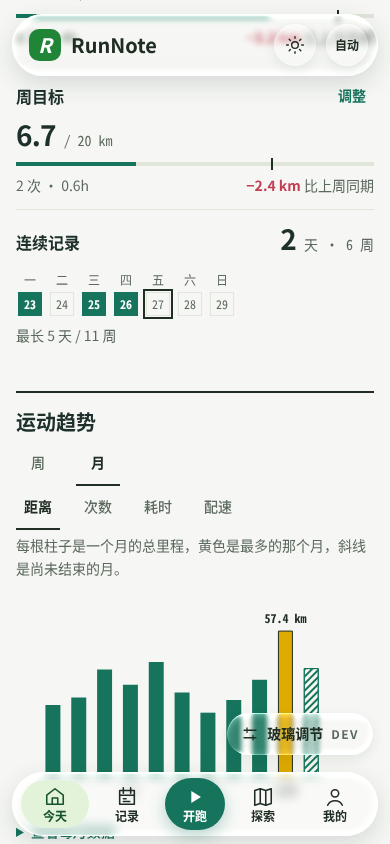
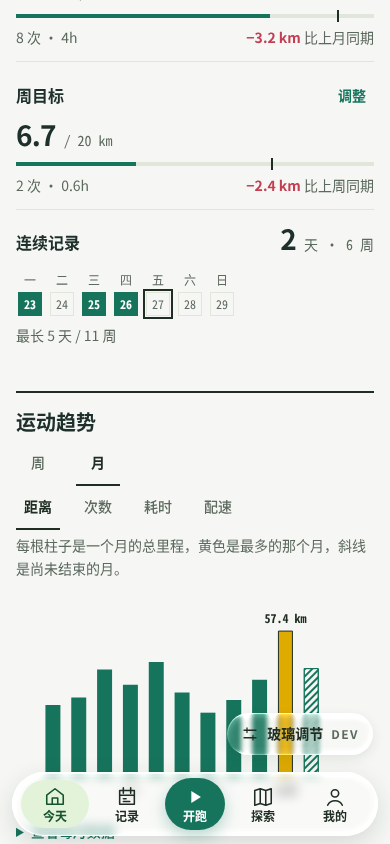
docs(design): record the phone top-bar removal and refresh phase 1 evidence

Changed region(s): [[0.0308, 0.0, 0.9846, 0.1232]]

diff --git a/docs/101-editorial-receipt-phase1.md b/docs/101-editorial-receipt-phase1.md
@@ -13,12 +13,15 @@
 
 数据汇总的新结构：紧凑黄色页头（连体年份步进器）→ 年度距离主数字与三个辅助数字 → 目标压成一条四栏（年/月/周/连续记录）→ 运动趋势（7 栏）与足迹地图（5 栏）→ 运动日历 → 个人记录 → 运动足迹 → 统计口径。手机上同一顺序即使用顺序：年度数字 → 目标进度 → 趋势 → 地图 → 记录 → 浏览。
 
+**手机无顶部条**（负责人后续要求，同一 PR）：<800px 不再渲染顶部条（原 `.mobile-bar` 及其滚动收起逻辑、样式全部删除），不留空条，也不再有第二条玻璃栏。页面从顶部安全区开始（`.page-content` 顶部 `calc(--safe-top + 16px)`），第一屏就是黄色页头和年份控件；导航只有底部液态玻璃 Tab 栏。主题切换：已登录在“我的”→ 设置账户页的“更多”面板（“外观”一行）；未登录没有“我的”，放在页脚（主题 + “登录”，仅手机）。≥800px 的桌面顶部条完全不变。
+
 ## 改动范围
 
 | 区域 | 文件 | 意图 |
 | --- | --- | --- |
 | 令牌与共享样式 | `frontend/src/app.css` | 新增 `--control-border`、`--receipt-ink`、`--receipt-mark`、`--radius-sheet`、`--radius-header`、`--text-figure`、`--text-period-hero` 与别名 `--rule`/`--paper`/`--desk`/`--receipt`（不删旧令牌）；`--text-sport-title` 改为 28px；Editorial Receipt 共享类；手机 Tab 栏底色加密 |
 | 玻璃边界 | `lib/styles/liquid-glass.ts`、`liquid-glass.css`、`menu-glass.ts`、`MobileTabBar.svelte` | `.editorial-page` 内容区排除、`[data-glass-overlay]` 保留；浮动栏按配方调折射与模糊。未删除任何玻璃代码，DEV 调节器仍只在开发环境加载 |
+| 手机外壳 | `AppNavigation.svelte`、`MobileAccountLinks.svelte`、`routes/+layout.svelte`（页脚）、`app.css`、`WellbeingReport.svelte`（打印样式里删掉已不存在的 `.mobile-bar`） | 删除手机顶部条；页面从安全区开始；主题切换移到“我的”面板（未登录时在页脚） |
 | 组件 | `PageHeader`、`MetricSummary`、`TrendChart` + `trend-chart.ts`、`ProvinceMap`、`GoalOverview`、`RecordsBanner`、`RecordsBannerLoader`、`ActivityExplorer` | 见上；props 只增不减，`GoalOverview`/`ActivityExplorer` 只用于数据汇总，直接改为账页写法；`RecordsBanner` 去掉运动色圆形徽章（hero 变体保留卡片外框） |
 | 页面 | `routes/dashboard/+page.svelte` | 新版面；数据读取、离线缓存、年份/日期/URL 状态、401 处理、重试与所有链接不变 |
 | 纯逻辑 | `lib/api/milestones.ts` | `periodElapsed`：目标进度条上“按日期此刻应到的位置”竖线（只做日历计算，距离仍来自服务端） |
@@ -37,10 +40,10 @@
 | --- | --- |
 | `svelte-kit sync && svelte-check --tsconfig ./tsconfig.json` | 0 errors / 0 warnings |
 | `stylelint "src/**/*.{css,svelte}" "tests/fixtures/**/*.{css,svelte}"` | 通过 |
-| `vitest run` | 79 files / 519 tests passed |
+| `vitest run` | 79 files / 520 tests passed |
 | `vite build` | 成功（既有的大 chunk 警告） |
 | `node tests/fixtures/check-showcase-isolation.mjs` | PASS（生产产物无 showcase 标识）；生产产物中无“玻璃调节”调节器字符串 |
-| `playwright test --config playwright.ui.config.ts`（合成 UI，507 用例） | 502 passed、5 skipped（既有的条件跳过）、0 failed，35.5 分钟 |
+| `playwright test --config playwright.ui.config.ts`（合成 UI） | 首轮（5035e62）502 passed、5 skipped、0 failed。去掉手机顶部条后的全量运行：498 passed、5 skipped、1 failed（`theme.spec.ts` 仍在已登录手机数据汇总上找主题开关），改为到“我的”页查找后，该文件单独重跑 9 passed |
 | `playwright test --config playwright.design-system.config.ts` | 7 个行为用例通过；2 个像素基线用例无法在本机比较（仓库只有 `-darwin` 基线），需在 macOS 上审阅后更新 |
 
 `pnpm` 在本机不经 TTY 会要求重装依赖，因此按仓库习惯直接调用 `node_modules/.bin`；`scripts/verify.py` 依赖 `pnpm`，未整体运行。后端未改动，后端测试与集成测试未运行。
@@ -53,6 +56,17 @@
 - `liquid-glass.spec.ts`“pause offscreen controls”：首屏下方的玻璃控件从“查看全部”链接（现为实底文字链接，数据区不挂玻璃）换成足迹地图的投影切换浮层（仍是玻璃）。
 - `records-banner.spec.ts` 中宽横条：横幅去掉卡片内边距后，两栏加横条的视口区间从约 700–980px 变为约 700–915px，宽度改为 800/860/900。
 - `design-system.spec.ts` records banner showcase：compact 变体改为断言 16px 顶部内边距与 1px 发丝线（hero 仍断言 24px 卡片）。
+
+**手机无顶部条的 UI 断言**：`top-navigation.spec.ts` 中各个手机栏用例改为断言手机上没有顶部条（`.mobile-bar` 数量为 0、header 高度 0）、页头在顶部 24px 以内、滚动时顶部没有任何浮层；只有一个页面主题开关，在“我的”面板里。删除的用例只有“收起时的滑动动画”，因为该行为已不存在。`mobile-tabbar.spec.ts` 的安全区用例改为断言页面顶部 padding = 安全区 + 16px；`ui-shell.spec.ts` 与 `liquid-glass.spec.ts` 用来抽查玻璃按钮的对象从顶部条的主题按钮换成“我的”面板里的主题按钮（同一个组件，仍是玻璃）。
+
+**手机核对**（合成数据，已登录与未登录，浅色与深色）：320×640、390×844、768×1024 页头顶部都在 16px，header 高度 0，横向溢出 0。滚到底时页脚最后一行在 Tab 栏上方。Tab 栏“我的”能进入设置，面板里的主题按钮能切换外观；未登录时页脚有主题与“登录”（指向 `/admin`），≥800px 时隐藏。1440×900 桌面页头位置与修改前一致（y=112）。页面错误 0。
+
+| | 浅色 | 深色 |
+| --- | --- | --- |
+| 320×640 | ![](assets/2026-11-27-editorial-receipt-phase1/after-dashboard-320-light.png) | ![](assets/2026-11-27-editorial-receipt-phase1/after-dashboard-320-dark.png) |
+| 390 滚到底（页脚在 Tab 栏上方） | ![](assets/2026-11-27-editorial-receipt-phase1/after-dashboard-390-light-bottom.png) | ![](assets/2026-11-27-editorial-receipt-phase1/after-dashboard-390-dark-bottom.png) |
+| “我的”面板 · 外观 | ![](assets/2026-11-27-editorial-receipt-phase1/after-me-appearance-390-light.png) | ![](assets/2026-11-27-editorial-receipt-phase1/after-me-appearance-390-dark.png) |
+| 未登录页脚 | ![](assets/2026-11-27-editorial-receipt-phase1/after-anon-footer-390-light.png) | ![](assets/2026-11-27-editorial-receipt-phase1/after-anon-footer-390-dark.png) |
 
 **视觉核对**（合成数据；1440×900、768×1024、390×844，浅/深色；控制台只有被阻止的外部底图请求 `ERR_FAILED`，与修改前相同；三档宽度横向溢出 0）
 

diff --git a/docs/design-system/brand.md b/docs/design-system/brand.md
@@ -164,7 +164,7 @@
 | 6.9 记录中 | 背景 `--rec-bg`（浅 #fcfcf7 / 深 #161514）、文字 `--rec-ink`（浅 #10251b / 深 #f6f4f1，对比 15.7 / 16.6:1）；距离 136px、用时/配速 52px，全部墨色（不用绿色区分）；状态一行纯文字（● 记录中 · GPS ±6 m · 离线）；锁屏 52px；单一 76px「暂停」；结束只在暂停态出现（沿用移动规范长按 + 单击确认兜底） | `RecordingWorkspace` 视觉；状态机不变 |
 | 6.10 状态条 | 3px 左边线 + soft 底 + 图标 + 一句可操作文字 | 替代圆角提示卡 |
 | 6.11 SaveBar | 吸底、10px 圆角、`--control-border`、无玻璃（身心健康页的玻璃变体保留） | — |
-| 6.12 顶部条 / 手机栏 / Tab 栏 | **不改** | — |
+| 6.12 顶部条 / Tab 栏 | 桌面顶部条不改；手机（<800px）不显示顶部条，只有底部 Tab 栏（§12 第 7 条） | — |
 
 ## 7. 状态规则
 
@@ -204,7 +204,7 @@ RunNote 是两层，不是一层替换另一层：
 
 | 用玻璃 | 保持实底/清晰 |
 | --- | --- |
-| 桌面顶部条、手机顶部条与底部 Tab 栏；地图浮层控件（投影、缩放、定位、底图、回放）；浮动工具栏；菜单、选择器弹层、AnchoredPanel；空间交互面板 | 数据统计、活动列表、目标与趋势图、活动详情数据、月度/年度回顾、分享海报；已迁移页面内容区的按钮与视图切换 |
+| 桌面顶部条与手机底部 Tab 栏；地图浮层控件（投影、缩放、定位、底图、回放）；浮动工具栏；菜单、选择器弹层、AnchoredPanel；空间交互面板 | 数据统计、活动列表、目标与趋势图、活动详情数据、月度/年度回顾、分享海报；已迁移页面内容区的按钮与视图切换 |
 
 实现：内容区由 `.editorial-page` 排除（`liquid-glass.ts` 选择器与 `liquid-glass.css` 的 `:where(:not(.editorial-page *), [data-glass-overlay] *)`），页面内的浮层容器加 `[data-glass-overlay]` 继续用玻璃。玻璃参数不锁死为一个值，按背景与用途调：`attachFloatingGlass(node, recipe)`（`lib/styles/menu-glass.ts`）在共享设置之上叠加每条栏的配方——顶部条 `TOP_BAR_GLASS`（折射 ×0.85、额外模糊 1px），底部 Tab 栏 `TAB_BAR_GLASS`（折射 ×0.4、额外模糊 4px，底色 `--glass-fill-base` 约 39%），因为图表和列表会在 Tab 栏下滚动、它的文字必须可读。WebKit 走磨砂（`rn-frosted-glass`），`prefers-reduced-transparency` 与强制色回退为实底，`prefers-reduced-motion` 停止动效。玻璃渲染、调节能力与 DEV 调节器（`LiquidGlassTuner`，仅 `import.meta.env.DEV` 加载，生产不出现）全部保留，不另建第二套组件体系。
 
@@ -280,6 +280,7 @@ RunNote 是两层，不是一层替换另一层：
 | 3 | 内容区按钮去玻璃 | 接受；后续细化明确：**保留全部玻璃代码、效果、调节能力与 DEV 调节器**，只让数据内容表面保持实底，不把玻璃重新引入数据区 | 同 §8.1：`.editorial-page` 内容区排除、`[data-glass-overlay]` 浮层保留；未删除任何玻璃代码 |
 | 4 | 控件圆角 12→10、去 24px 内容卡片 | **按页迁移**，每页一个 PR，不做全局切换 | 由 `.editorial-page` 覆盖 `--radius-control`；数据汇总已去卡片，其余页面在各自 PR 中处理 |
 | 6 | 版面节奏 | 不给每个区块相同权重：强调里程碑、趋势、地理；压缩目标、个人记录与次要统计；用好桌面横向空间；移动端按场景重组 | 数据汇总：年度里程碑整行 → 目标压成一条四栏 → 趋势 7 栏 + 足迹地图 5 栏 → 日历 → 个人记录 → 运动足迹；主区块 2px 节线，次级 1px 发丝线；手机上目标紧跟年度数字 |
+| 7 | 手机顶部条 | **手机上不显示顶部条**，并优化页面开头 | <800px 删除 `.mobile-bar`（不留空条、不留第二条玻璃栏）；页面从顶部安全区开始，第一屏是黄色页头；导航只有底部 Tab 栏；主题切换移到“我的”页的“更多”面板（未登录时在页脚，附“登录”）。≥800px 桌面顶部条完全不变 |
 | 5 | 峰值黄对比度 | 使用规范要求的加粗标签与数值文本；只有在仍难区分时才加 1px 墨色描边，且不得削弱对比 | `trendChartOption` 计算峰值黄与页面底色的对比度，低于 3:1（浅色约 2.0:1）时加 1px `--foreground` 描边；深色（约 9:1）不加 |
 
 **第 1 阶段范围之外（待设置页迁移）**：`SettingsTabs` 的下划线外观。现有设置分区测试（`settings-hub.spec.ts` 的移动端玻璃透镜飞行、透镜对齐与 `top-navigation.spec.ts` 的“segmented lens label”）把玻璃透镜写成了行为契约；改成下划线要退役这些测试，属于设置页迁移 PR 的评审内容。第 1 阶段只提供共享的 `.underline-tabs` 并用于数据汇总的趋势切换。

diff --git a/docs/design-system/tokens.md b/docs/design-system/tokens.md
@@ -30,7 +30,7 @@
 | `--control-hover-border` | #91aca0 | #8b8680 | 字段 hover |
 | `--scrollbar-thumb` / `--scrollbar-thumb-hover` | `--muted-foreground` 42% / 70% 透明混合 | `--muted-foreground` 46% / 75% 透明混合 | 全站统一的细滚动条滑块；`app.css` 的 `@layer base` 用 `scrollbar-width: thin; scrollbar-color: var(--scrollbar-thumb) transparent` 作用于所有元素（含页面根），hover 色只用于不支持标准属性的旧 WebKit 后备（`@supports not (scrollbar-width: thin)` 下的 `::-webkit-scrollbar`，8px、圆角滑块、透明轨道）。不要在组件里另写滚动条颜色 |
 | `--sport-sidebar` | #218538 | #34322f | 目前没有样式读取（原绿色侧栏与站点设置预览都已改走 `--surface` / `--border` / `--sport-brand` / `--foreground`）；令牌保留 |
-| `--sport-brand` / `--brand-foreground` | #218538 / #ffffff | #f2f0ee / #1d1c1a | Logo 方块底色与字母色（顶部条、手机栏、公开页顶部导航、站点设置预览）；浅色是品牌绿，深色是中性浅灰 |
+| `--sport-brand` / `--brand-foreground` | #218538 / #ffffff | #f2f0ee / #1d1c1a | Logo 方块底色与字母色（桌面顶部条、公开页顶部导航、站点设置预览；手机私人页面没有顶部条）；浅色是品牌绿，深色是中性浅灰 |
 | `--sport-nav-hover` | #0000000a | #ffffff12 | 导航 hover |
 | `--sport-nav-active` / `--sport-nav-active-ink` | #e3f3d9 / #14532d | #4d4644 / #f2f0ee | 当前导航胶囊（也用于头像底）及其文字；浅色淡绿，深色中性灰 |
 | `--action` / `--action-hover` | #218538 / #176a2c | #8a847d / #a39d95 | 玻璃主操作按钮（`button.bg-primary`、`.button-primary` 等）的染色，按 `--glass-tint-opacity` 混合 |
@@ -117,7 +117,7 @@
 | `--radius-sheet` | .25rem | 票据纸、地图外框 |
 | `--radius-pill` | 9999px | 胶囊与材质控件 |
 | `--radius-glass-control/panel` | 引用 pill/card | 材质 CSS 中的最终几何 |
-| `--sidebar-width` | 15rem | 旧侧栏宽度。顶部条（≥800px）与手机菜单（<800px）都已覆盖它，不再生效；`app.css` 里的基础规则仍引用，后续可连同旧侧栏规则一起清理，新代码不要使用 |
+| `--sidebar-width` | 15rem | 旧侧栏宽度。顶部条（≥800px）与手机布局（<800px）都已覆盖它，不再生效；`app.css` 里的基础规则仍引用，后续可连同旧侧栏规则一起清理，新代码不要使用 |
 | `--top-navigation-offset` | 14px | 桌面顶部条距视口顶部与左右的间距（`.app-sidebar` 的 `inset`） |
 | `--top-navigation-height` | 4rem | 桌面顶部条高度；内容区 `padding-top: 5rem` 为它留位 |
 | `--content-width` | 86rem | 内容最大宽度 |
@@ -155,11 +155,11 @@
 
 | 边界 | 现有用途 |
 | --- | --- |
-| 479px 以下 | 手机栏“导航”按钮收起文字，只留图标（`app.css`） |
+| 479px 以下 | 公开页手机顶栏的“导航”按钮收起文字，只留图标（`app.css` 的 `.public-header .nav-toggle`） |
 | 480px | 骨架与局部密度 |
 | 640px | 表单/页头动作换行、指标纵排、公开导航收敛 |
 | 768px | DatePicker 全宽及局部布局 |
-| 800px | 壳层断点 B：≥800px 为私人悬浮顶部条，<800px 为手机栏加展开菜单（见 [top-navigation 设计文档](../superpowers/specs/2026-10-30-top-navigation-design.md)；`app.css`、`liquid-glass-controls.css`、`enhanceNavigation` 与 `AppNavigation.svelte` 的 `matchMedia` 各写一份，注释互相指向，要改一起改）；`.site-layout` 等页面内布局仍以 1024px 为界 |
+| 800px | 壳层断点 B：≥800px 为私人悬浮顶部条，<800px 无顶部条、只有底部标签栏（2026-11-27 起）（见 [top-navigation 设计文档](../superpowers/specs/2026-10-30-top-navigation-design.md)；`app.css`、`liquid-glass-controls.css`、`enhanceNavigation` 与 `AppNavigation.svelte` 的 `matchMedia` 各写一份，注释互相指向，要改一起改）；`.site-layout` 等页面内布局仍以 1024px 为界 |
 | 1200px | 指标图标横排恢复 |
 | 1360px | 顶部条图标加文字的下限：800–1359px 只有图标，≥1360px 带文字；普通账户 9 个入口（含末尾最长的“本人工作区”）使用紧凑内边距，避免压到账户区 |
 
